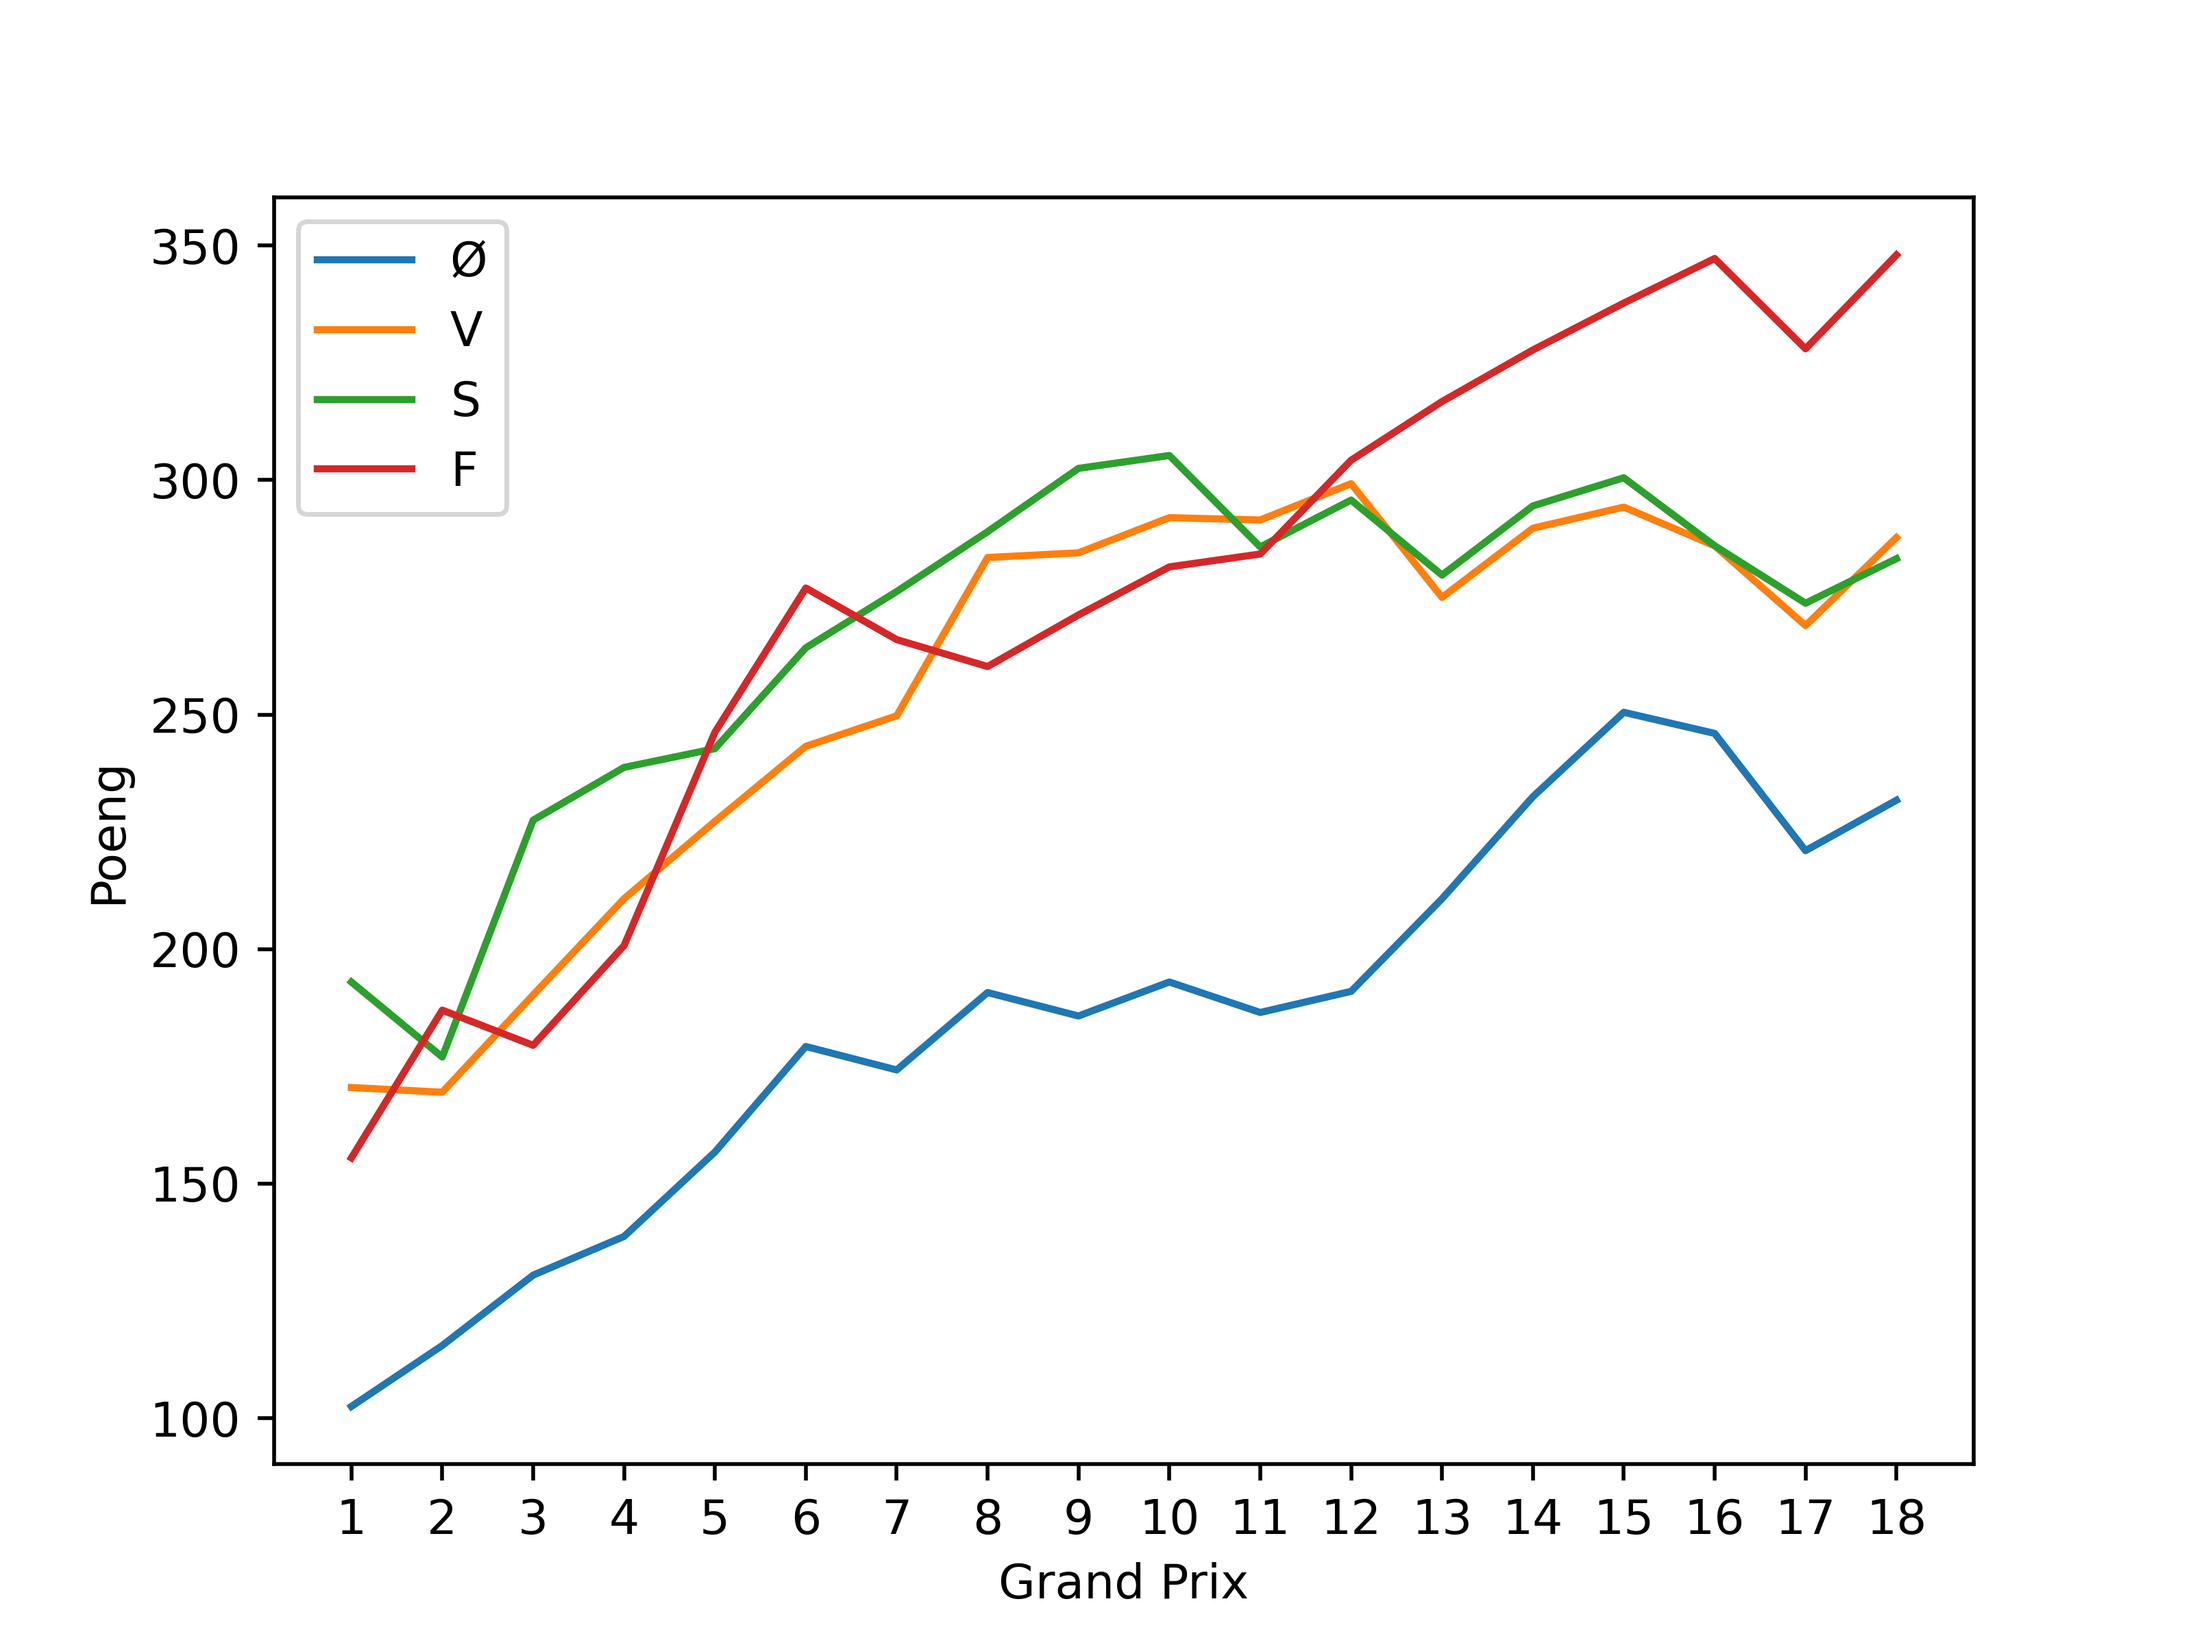
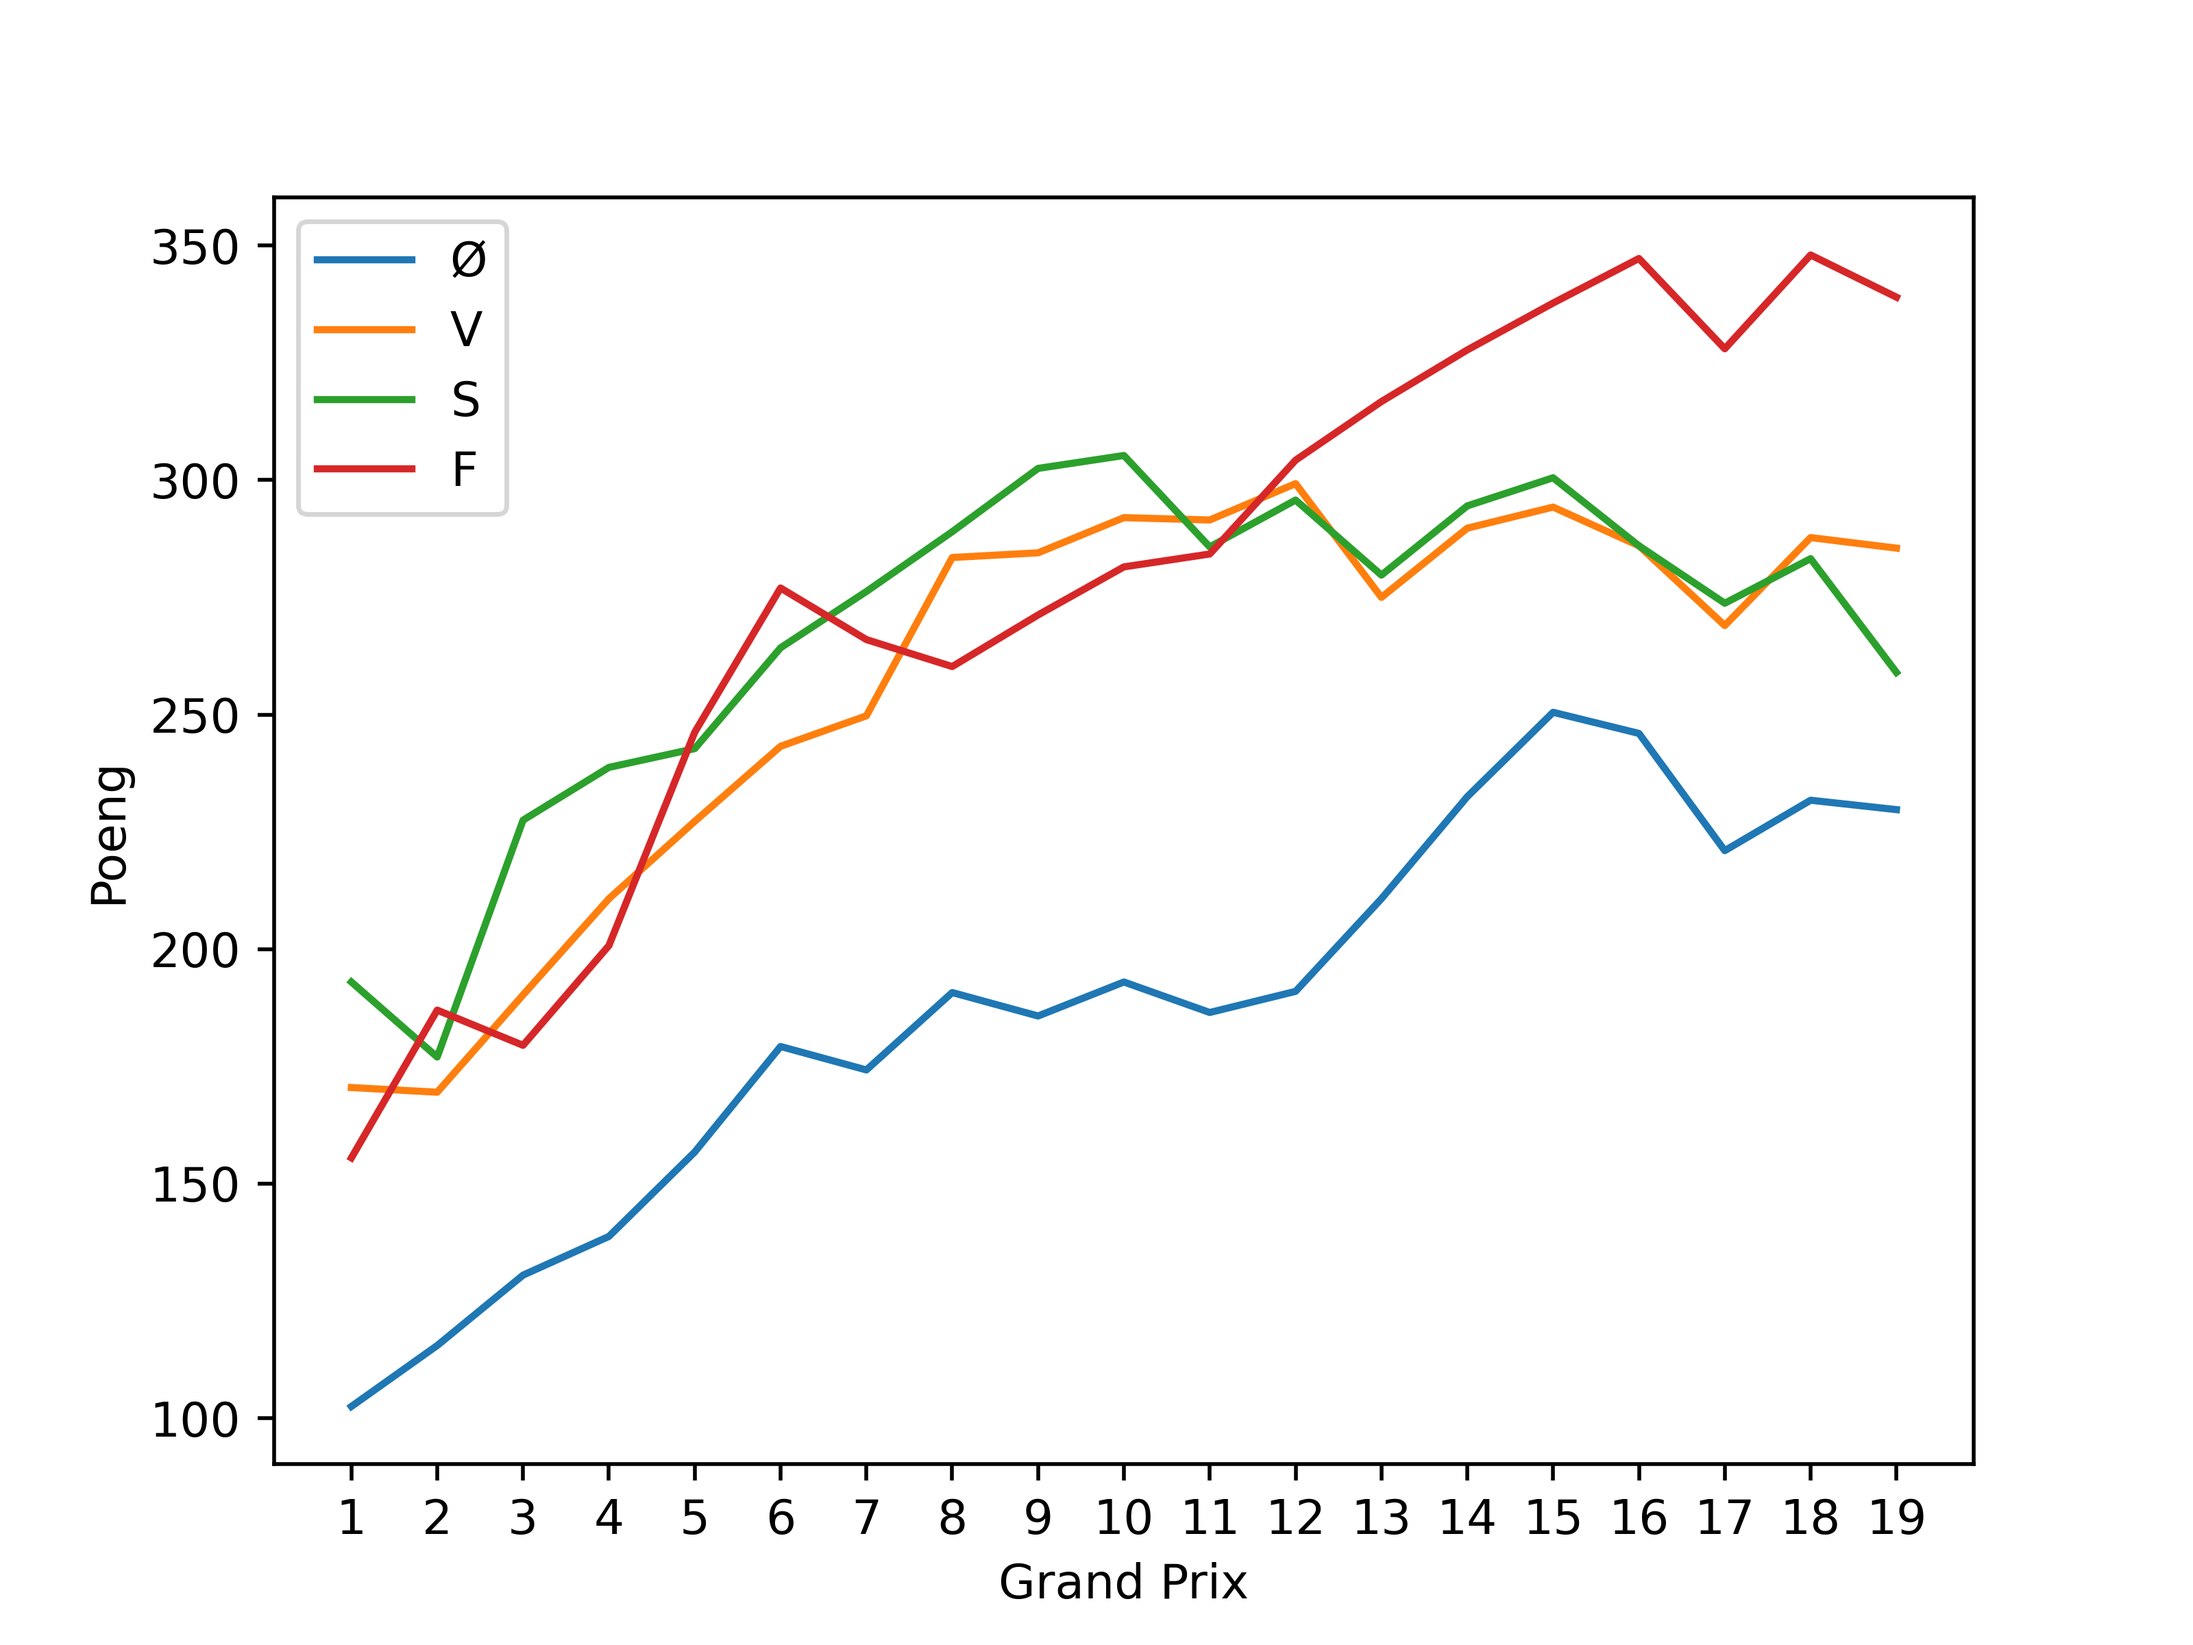
Deployment

diff --git a/resultater_lop.html b/resultater_lop.html
@@ -19,6 +19,204 @@
 <div>
 <h2>Resultater av løp i år</h2>
 <div>
+<h3>19. United States</h3>
+<table>
+<thead>
+<tr>
+<th>Pos</th>
+<th>No</th>
+<th>Driver</th>
+<th>Car</th>
+<th>Laps</th>
+<th>Time/retired</th>
+<th>Pts</th>
+</tr>
+</thead>
+<tbody>
+<tr>
+<td>1</td>
+<td>16</td>
+<td>Charles Leclerc</td>
+<td>Ferrari</td>
+<td>56</td>
+<td>1:35:10</td>
+<td>25</td>
+</tr>
+<tr>
+<td>2</td>
+<td>55</td>
+<td>Carlos Sainz</td>
+<td>Ferrari</td>
+<td>56</td>
+<td>+8.562s</td>
+<td>18</td>
+</tr>
+<tr>
+<td>3</td>
+<td>1</td>
+<td>Max Verstappen</td>
+<td>Red Bull Racing Honda RBPT</td>
+<td>56</td>
+<td>+19.412s</td>
+<td>15</td>
+</tr>
+<tr>
+<td>4</td>
+<td>4</td>
+<td>Lando Norris</td>
+<td>McLaren Mercedes</td>
+<td>56</td>
+<td>+20.354s</td>
+<td>12</td>
+</tr>
+<tr>
+<td>5</td>
+<td>81</td>
+<td>Oscar Piastri</td>
+<td>McLaren Mercedes</td>
+<td>56</td>
+<td>+21.921s</td>
+<td>10</td>
+</tr>
+<tr>
+<td>6</td>
+<td>63</td>
+<td>George Russell</td>
+<td>Mercedes</td>
+<td>56</td>
+<td>+56.295s</td>
+<td>8</td>
+</tr>
+<tr>
+<td>7</td>
+<td>11</td>
+<td>Sergio Perez</td>
+<td>Red Bull Racing Honda RBPT</td>
+<td>56</td>
+<td>+59.072s</td>
+<td>6</td>
+</tr>
+<tr>
+<td>8</td>
+<td>27</td>
+<td>Nico Hulkenberg</td>
+<td>Haas Ferrari</td>
+<td>56</td>
+<td>+62.957s</td>
+<td>4</td>
+</tr>
+<tr>
+<td>9</td>
+<td>30</td>
+<td>Liam Lawson</td>
+<td>RB Honda RBPT</td>
+<td>56</td>
+<td>+70.563s</td>
+<td>2</td>
+</tr>
+<tr>
+<td>10</td>
+<td>43</td>
+<td>Franco Colapinto</td>
+<td>Williams Mercedes</td>
+<td>56</td>
+<td>+71.979s</td>
+<td>1</td>
+</tr>
+<tr>
+<td>11</td>
+<td>20</td>
+<td>Kevin Magnussen</td>
+<td>Haas Ferrari</td>
+<td>56</td>
+<td>+79.782s</td>
+<td>0</td>
+</tr>
+<tr>
+<td>12</td>
+<td>10</td>
+<td>Pierre Gasly</td>
+<td>Alpine Renault</td>
+<td>56</td>
+<td>+90.558s</td>
+<td>0</td>
+</tr>
+<tr>
+<td>13</td>
+<td>14</td>
+<td>Fernando Alonso</td>
+<td>Aston Martin Aramco Mercedes</td>
+<td>55</td>
+<td>+1 lap</td>
+<td>0</td>
+</tr>
+<tr>
+<td>14</td>
+<td>22</td>
+<td>Yuki Tsunoda</td>
+<td>RB Honda RBPT</td>
+<td>55</td>
+<td>+1 lap</td>
+<td>0</td>
+</tr>
+<tr>
+<td>15</td>
+<td>18</td>
+<td>Lance Stroll</td>
+<td>Aston Martin Aramco Mercedes</td>
+<td>55</td>
+<td>+1 lap</td>
+<td>0</td>
+</tr>
+<tr>
+<td>16</td>
+<td>23</td>
+<td>Alexander Albon</td>
+<td>Williams Mercedes</td>
+<td>55</td>
+<td>+1 lap</td>
+<td>0</td>
+</tr>
+<tr>
+<td>17</td>
+<td>77</td>
+<td>Valtteri Bottas</td>
+<td>Kick Sauber Ferrari</td>
+<td>55</td>
+<td>+1 lap</td>
+<td>0</td>
+</tr>
+<tr>
+<td>18</td>
+<td>31</td>
+<td>Esteban Ocon</td>
+<td>Alpine Renault</td>
+<td>55</td>
+<td>+1 lap</td>
+<td>0</td>
+</tr>
+<tr>
+<td>19</td>
+<td>24</td>
+<td>Zhou Guanyu</td>
+<td>Kick Sauber Ferrari</td>
+<td>55</td>
+<td>+1 lap</td>
+<td>0</td>
+</tr>
+<tr>
+<td>NC</td>
+<td>44</td>
+<td>Lewis Hamilton</td>
+<td>Mercedes</td>
+<td>1</td>
+<td>DNF</td>
+<td>0</td>
+</tr>
+</tbody>
+</table>
+</div>
+<div>
 <h3>18. Singapore</h3>
 <table>
 <thead>

diff --git a/index.html b/index.html
@@ -49,30 +49,30 @@
 <td>V</td>
 <td>72</td>
 <td>46</td>
-<td>56.75</td>
+<td>60.5</td>
 <td>72</td>
 <td>35</td>
-<td>281.75</td>
+<td>285.5</td>
 </tr>
 <tr>
 <td>3</td>
 <td>S</td>
 <td>64</td>
 <td>30</td>
-<td>62.25</td>
+<td>66.0</td>
 <td>57</td>
 <td>42</td>
-<td>255.25</td>
+<td>259.0</td>
 </tr>
 <tr>
 <td>4</td>
 <td>Ø</td>
 <td>57</td>
 <td>40</td>
-<td>65.75</td>
+<td>68.75</td>
 <td>64</td>
 <td>0</td>
-<td>226.75</td>
+<td>229.75</td>
 </tr>
 </tbody>
 </table>
@@ -520,7 +520,6 @@
 </div>
 <div>
 <h3>10.plass</h3>
-<input type="checkbox" id="toggle"/>
 <table>
 <thead>
 <tr>
@@ -888,21 +887,21 @@
 </tr>
 <tr>
 <td>19. United States</td>
-<td><div id="hidden">█</div><div id="result">Fernando Alonso</div></td>
-<td><div id="hidden">█</div><div id="result">7</div></td>
-<td>N/A</td>
-<td>0</td>
-<td><div id="hidden">█</div><div id="result">Pierre Gasly</div></td>
-<td><div id="hidden">█</div><div id="result">6</div></td>
-<td>N/A</td>
-<td>0</td>
-<td><div id="hidden">█</div><div id="result">Nico Hulkenberg</div></td>
-<td><div id="hidden">█</div><div id="result">11</div></td>
-<td>N/A</td>
-<td>0</td>
-<td><div id="hidden">█</div><div id="result">Lewis Hamilton</div></td>
-<td><div id="hidden">█</div><div id="result">17</div></td>
-<td>N/A</td>
+<td>Fernando Alonso</td>
+<td>7</td>
+<td>13</td>
+<td>3.0</td>
+<td>Pierre Gasly</td>
+<td>6</td>
+<td>12</td>
+<td>3.75</td>
+<td>Nico Hulkenberg</td>
+<td>11</td>
+<td>8</td>
+<td>3.75</td>
+<td>Lewis Hamilton</td>
+<td>17</td>
+<td>NC</td>
 <td>0</td>
 </tr>
 </tbody>
@@ -1317,7 +1316,7 @@
 </div>
 <div>
 <h3>Antall gule flagg<br>
-Faktisk antall: 33. Antatt total: 44.0</h3>
+Faktisk antall: 33. Antatt total: 41.7</h3>
 <table>
 <thead>
 <tr>
@@ -1362,7 +1361,7 @@ Faktisk antall: 33. Antatt total: 44.0</h3>
 </div>
 <div>
 <h3>Antall røde flagg<br>
-Faktisk antall: 2. Antatt total: 2.7</h3>
+Faktisk antall: 2. Antatt total: 2.5</h3>
 <table>
 <thead>
 <tr>
@@ -1407,7 +1406,7 @@ Faktisk antall: 2. Antatt total: 2.7</h3>
 </div>
 <div>
 <h3>Antall sikkerhetsbiler (inkl. VSC)<br>
-Faktisk antall: 14. Antatt total: 18.7</h3>
+Faktisk antall: 14. Antatt total: 17.7</h3>
 <table>
 <thead>
 <tr>
